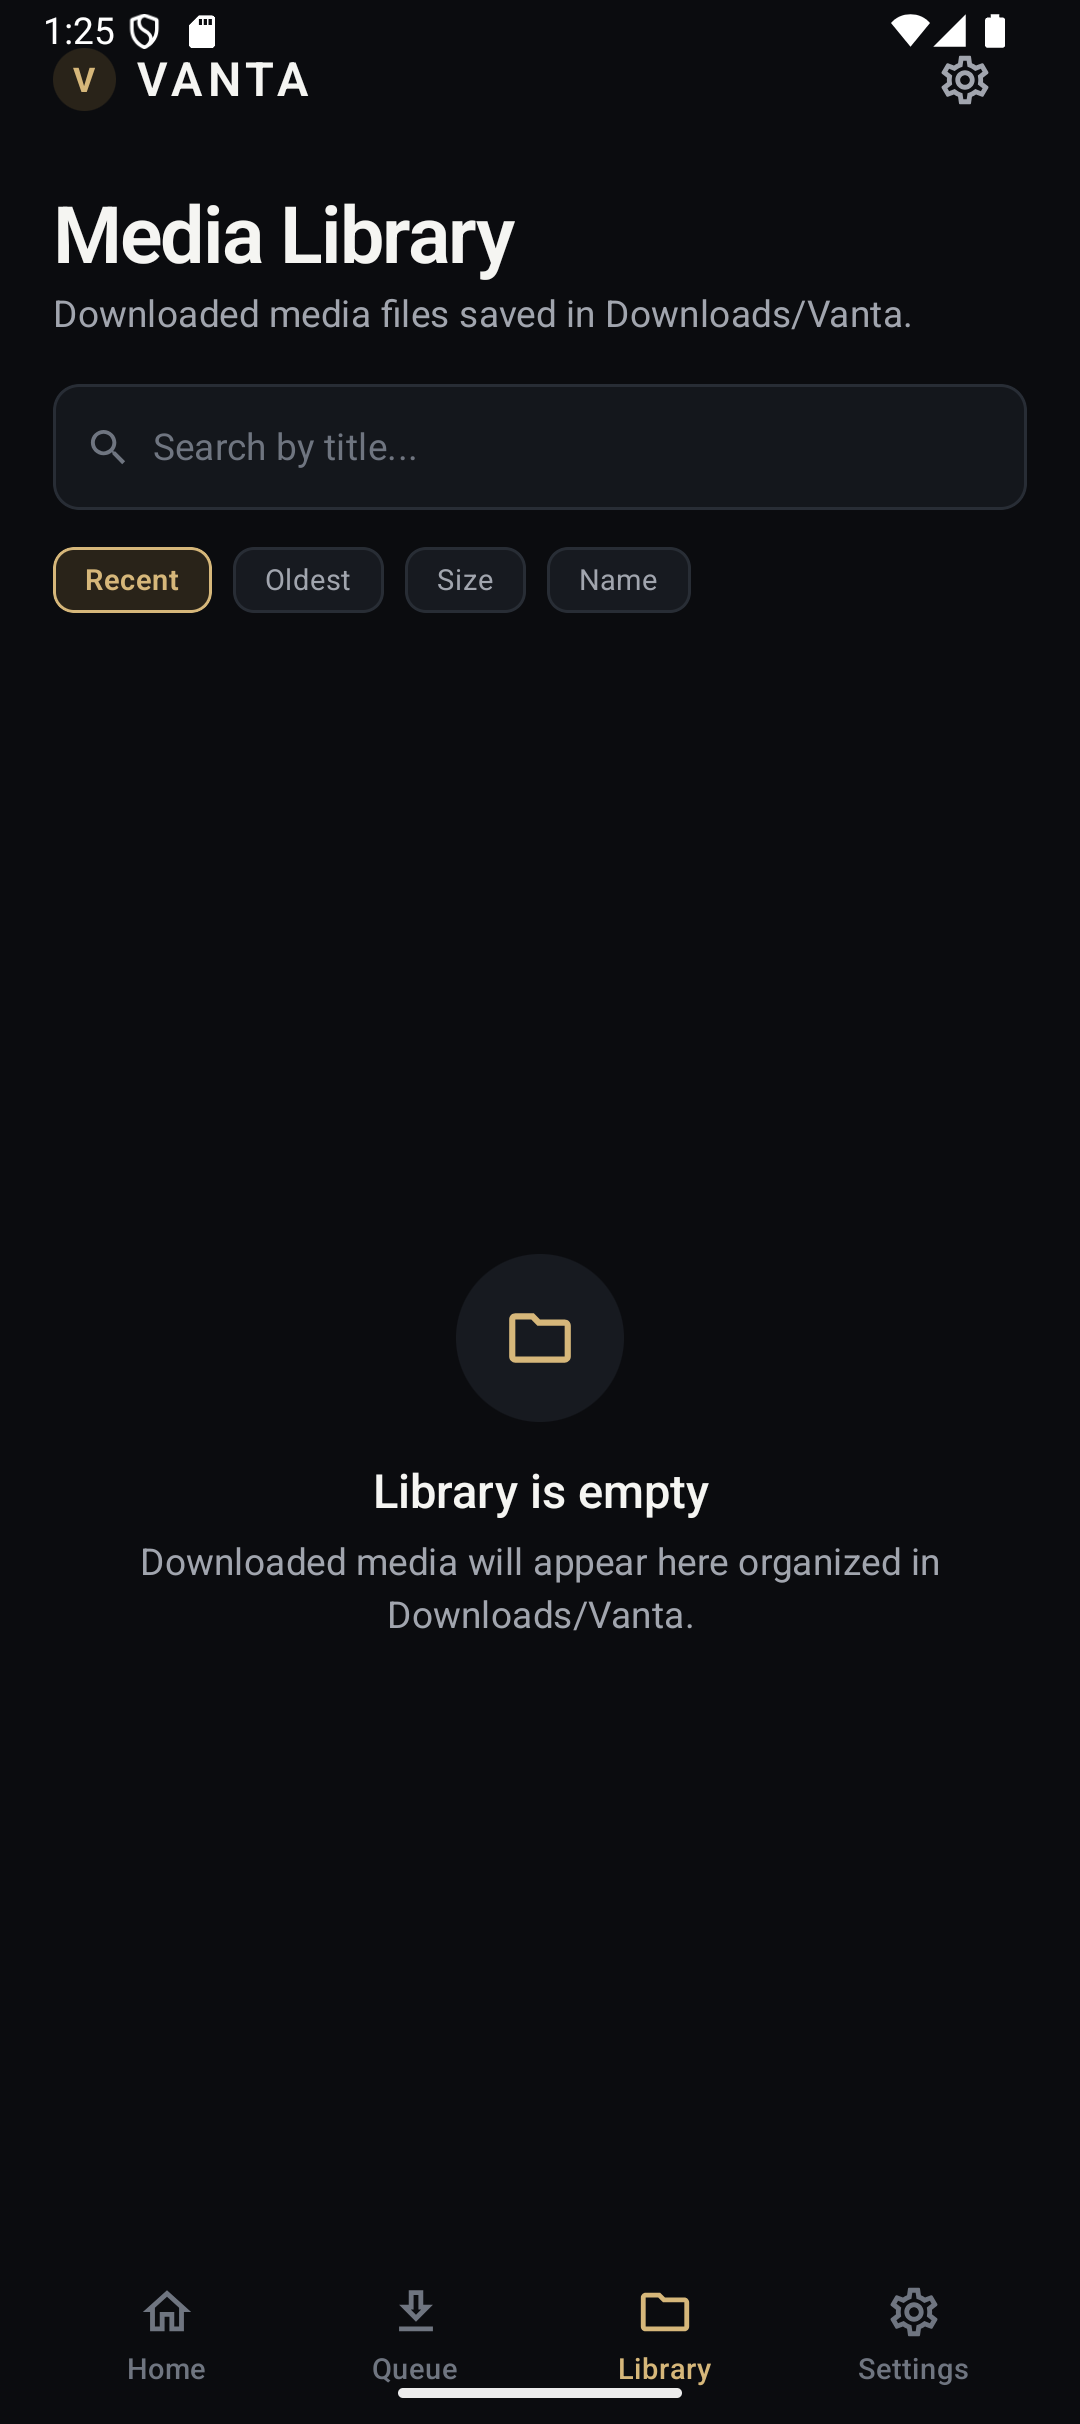
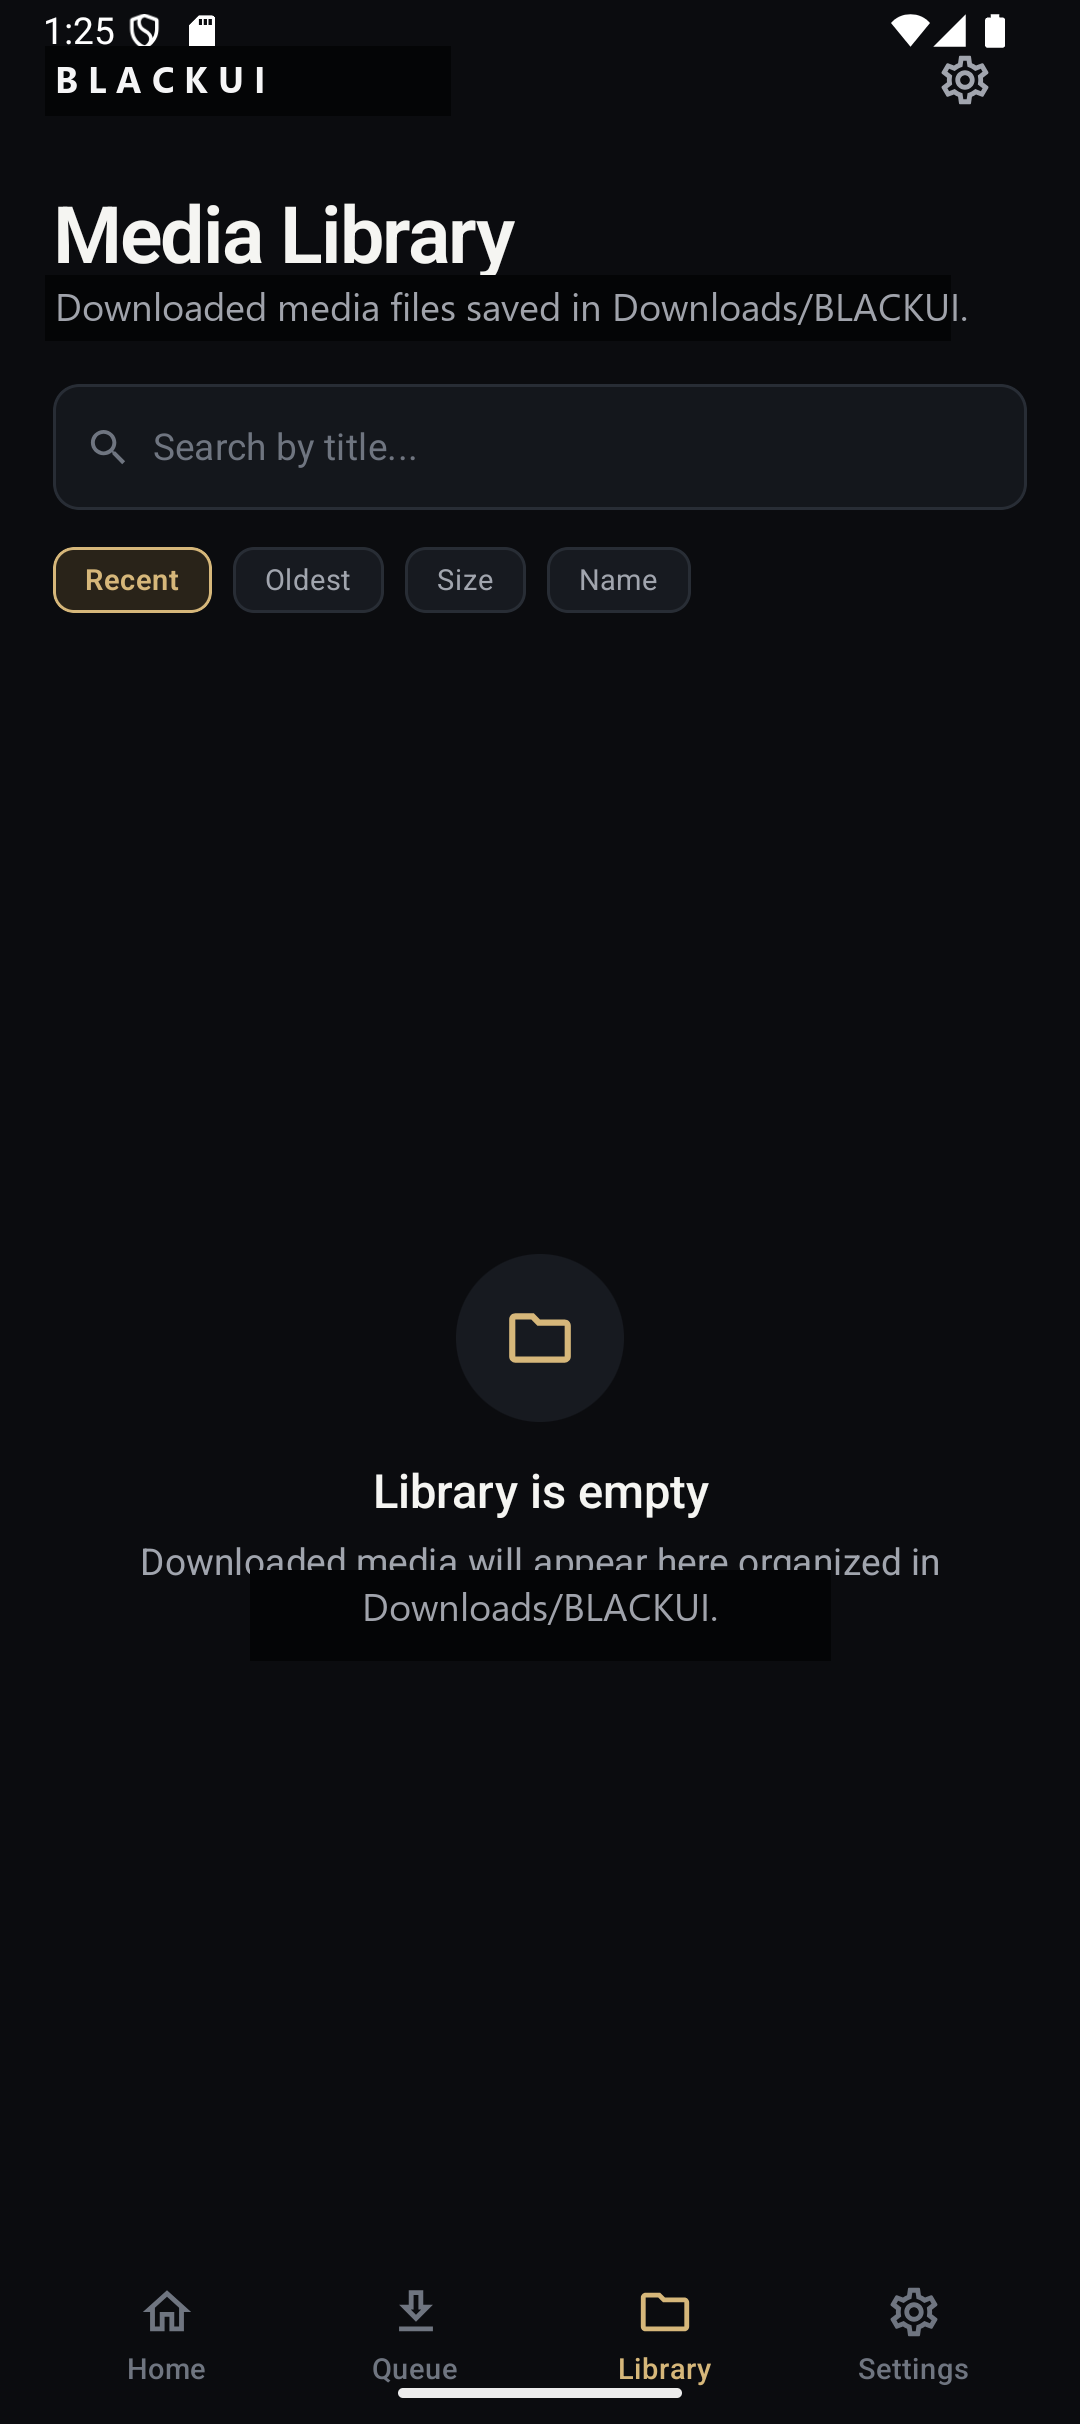
fix: replace all legacy VANTA branding with official BLACKUI across all screenshots, code, and metadata

Changed region(s): [[0.0611, 0.1238, 0.8861, 0.1547], [0.3361, 0.6498, 0.6417, 0.6807], [0.0306, 0.0, 0.2139, 0.0619]]

diff --git a/src/components/Showcase.tsx b/src/components/Showcase.tsx
@@ -23,7 +23,7 @@ export const Showcase: React.FC = () => {
       heading: 'Instant format inspection from any supported stream',
       description:
         'Paste any supported media link. BLACKUI automatically queries the underlying extractor to parse all available video streams, container formats, audio bitrates, and subtitles in milliseconds.',
-      screenshot: '/assets/screen_now.png',
+      screenshot: '/assets/blackui_extractor.png',
       alt: 'BLACKUI Main Extractor Interface',
       features: [
         'Automatic URL clipboard detection',
@@ -40,7 +40,7 @@ export const Showcase: React.FC = () => {
       heading: 'Real-time telemetry and download management',
       description:
         'Follow active downloads with clear transfer rates, byte progress, and estimated time of arrival. Background services ensure jobs continue smoothly even when switching applications.',
-      screenshot: '/assets/vanta_queue.png',
+      screenshot: '/assets/blackui_queue.png',
       alt: 'BLACKUI Download Queue and Status',
       features: [
         'Concurrent queue execution control',
@@ -57,7 +57,7 @@ export const Showcase: React.FC = () => {
       heading: 'All your downloaded media organized in one place',
       description:
         'Keep downloaded files easily accessible. Open directly in your preferred system media player or manage local files without cluttering your system folders.',
-      screenshot: '/assets/vanta_library.png',
+      screenshot: '/assets/blackui_library.png',
       alt: 'BLACKUI Media Library',
       features: [
         'Instant folder access and system file reveal',
@@ -74,7 +74,7 @@ export const Showcase: React.FC = () => {
       heading: 'Under-the-hood control and automated engine updates',
       description:
         'BLACKUI is built on a modular engine architecture with automated yt-dlp over-the-air updates to ensure extractors stay working when media platforms roll out changes.',
-      screenshot: '/assets/vanta_settings.png',
+      screenshot: '/assets/blackui_settings.png',
       alt: 'BLACKUI Settings and Engine Configuration',
       features: [
         'Automatic OTA yt-dlp binary synchronizer',

diff --git a/index.html b/index.html
@@ -17,13 +17,13 @@
     <meta property="og:type" content="website" />
     <meta property="og:title" content="BLACKUI — Premium Media Utility for Windows & Android" />
     <meta property="og:description" content="A thoughtfully designed, minimalist media utility built to make downloading, managing, and accessing supported media simpler." />
-    <meta property="og:image" content="/assets/vanta_home.png" />
+    <meta property="og:image" content="/assets/blackui_home.png" />
     
     <!-- Twitter -->
     <meta name="twitter:card" content="summary_large_image" />
     <meta name="twitter:title" content="BLACKUI — Premium Media Utility for Windows & Android" />
     <meta name="twitter:description" content="A thoughtfully designed, minimalist media utility built to make downloading, managing, and accessing supported media simpler." />
-    <meta name="twitter:image" content="/assets/vanta_home.png" />
+    <meta name="twitter:image" content="/assets/blackui_home.png" />
 
     <!-- Fonts: Inter & Geist -->
     <link rel="preconnect" href="https://fonts.googleapis.com">

diff --git a/src/components/Hero.tsx b/src/components/Hero.tsx
@@ -308,7 +308,7 @@ export const Hero: React.FC<HeroProps> = ({ onSelectPlatform }) => {
                   <span className="w-2 h-2 rounded-full bg-white/[0.1]" />
                 </div>
                 <img
-                  src="/assets/vanta_home.png"
+                  src="/assets/blackui_home.png"
                   alt="BLACKUI Mobile Interface"
                   className="w-full h-auto rounded-2xl object-cover shadow-inner"
                   loading="lazy"
